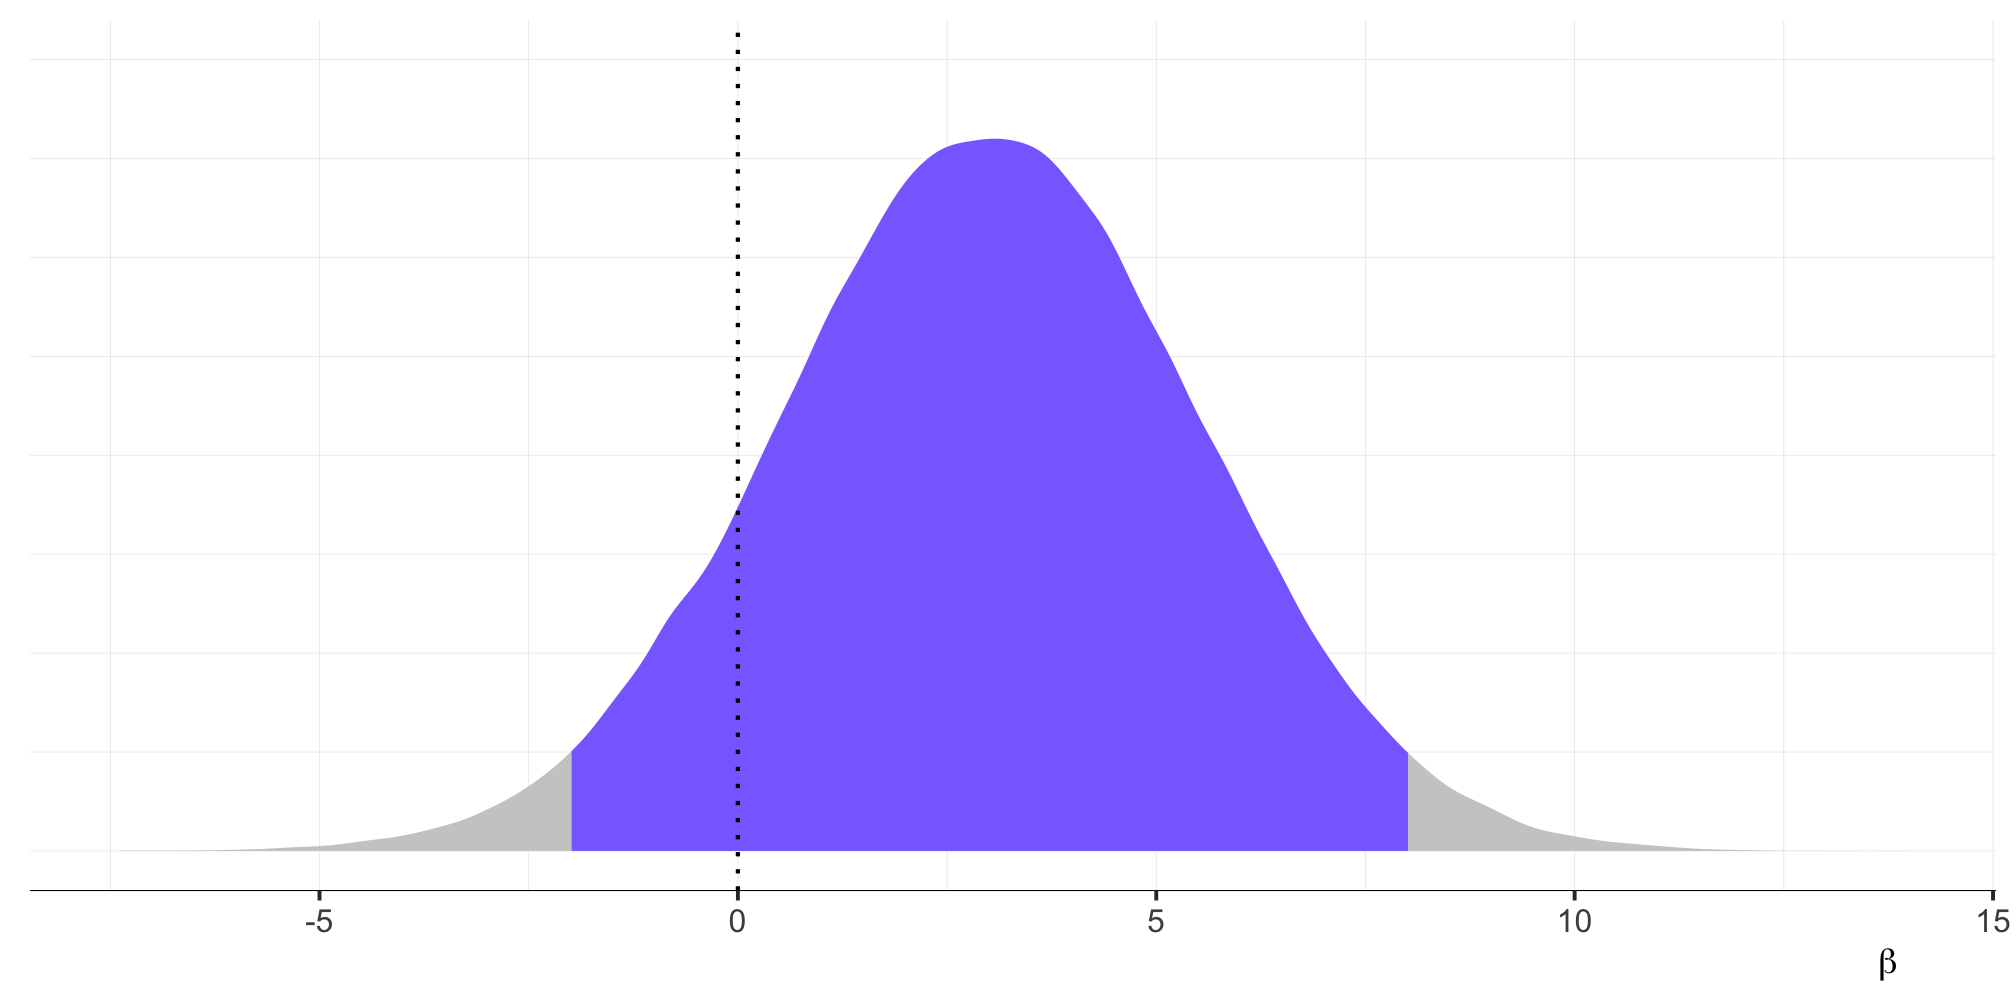
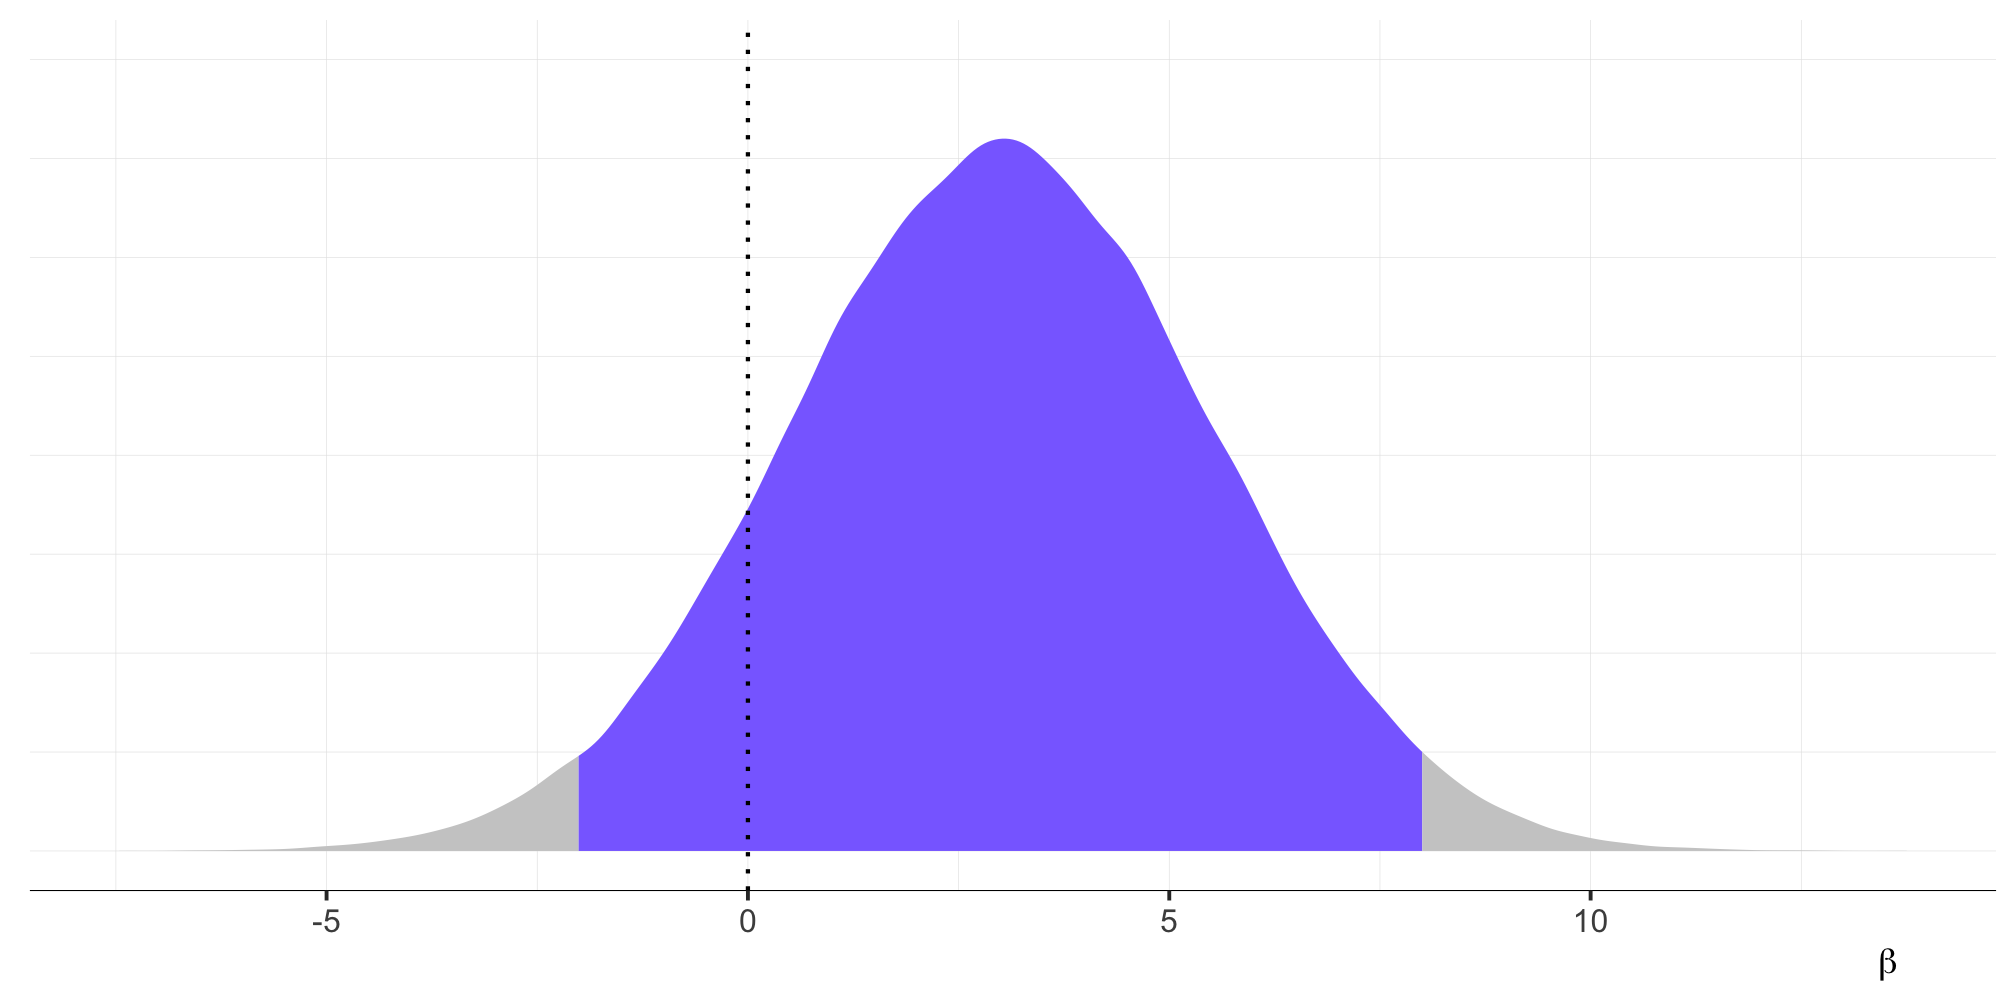
update examples with b_mod_01, about 90% complete

diff --git a/06_a2r_inference_over_posterior/index.html b/06_a2r_inference_over_posterior/index.html
@@ -17,7 +17,7 @@ class: center, middle, inverse, title-slide
 ## Bayesian inference
 ### Timo Roettger, Stefano Coretta and Joseph Casillas
 ### LabPhon workshop
-### 2021/07/12 (updated: 2021-06-24)
+### 2021/07/12 (updated: 2021-06-27)
 
 ---
 
@@ -300,9 +300,9 @@ class: center, middle
 
 ???
 
-Here we can see that the posterior mean is 0.29 and the 95% credible interval ranges from 0.15, 0.79
+Here we can see that the posterior mean is 0.3 and the 95% credible interval ranges from 0.13, 0.77
 
-Furthermore we see that 14.72% of the HDI falls within the ROPE
+Furthermore we see that 17.88% of the HDI falls within the ROPE
 
 This is visible in the plot with the orange vertical slab
 
